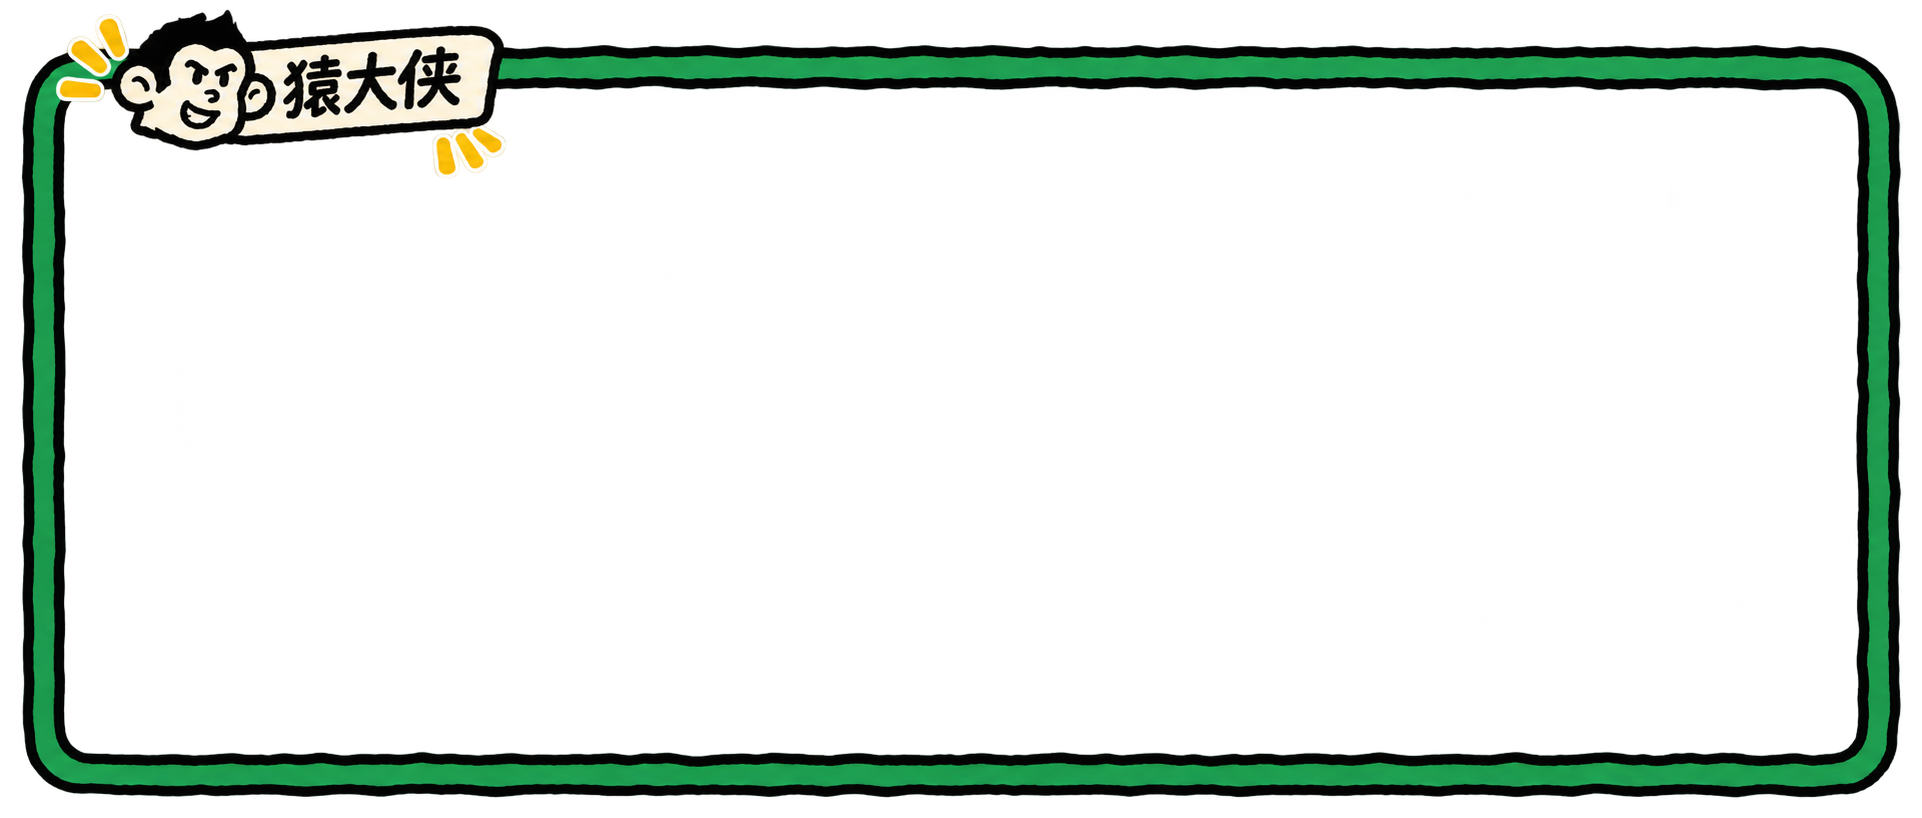
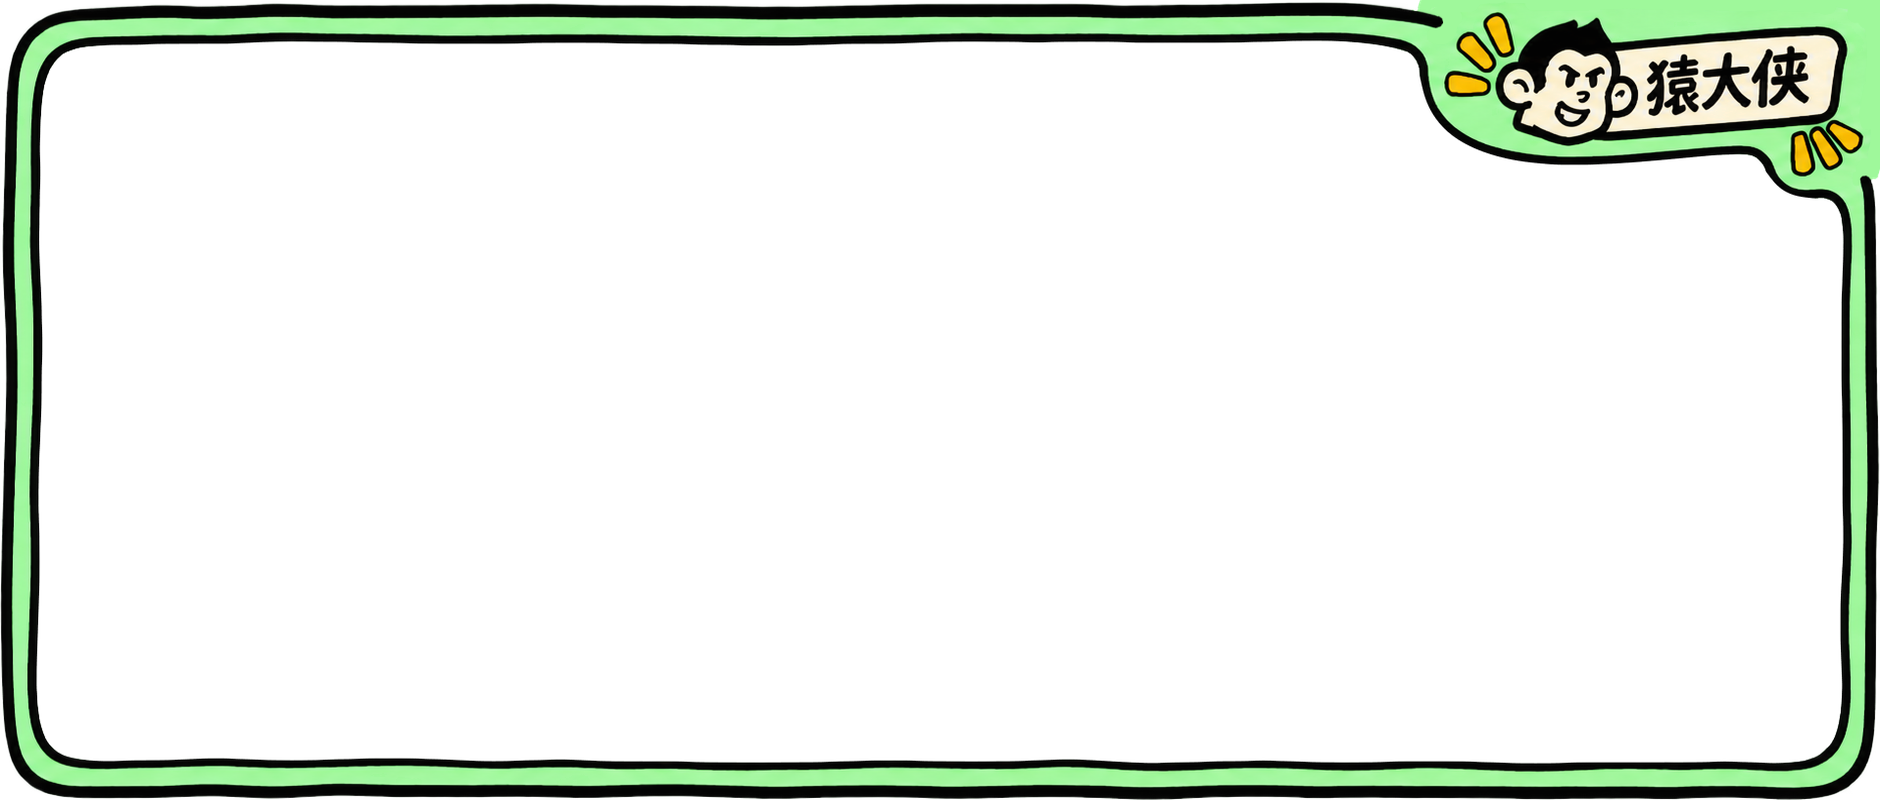
Use user-edited frame resized to exact 2.35:1 without trimming

Changed region(s): [[0.0, 0.0, 1.0, 1.0]]

diff --git a/tests/test_compose_cover.py b/tests/test_compose_cover.py
@@ -80,16 +80,16 @@ class CompositionTests(unittest.TestCase):
             self.assertGreater(count,100)
             self.assertEqual(result.getpixel((940,400)),Image.new('RGBA',(1,1),color).getpixel((0,0)))
 
-    def test_outer_margins_are_tight_without_losing_badge(self):
+    def test_border_asset_is_used_without_cropping_or_pixel_edits(self):
         for filename in m.BORDERS.values():
-            original = Image.open(ROOT/'assets/borders'/filename)
-            overlay = m.prepare_border(original,1880,800)
-            bounds = overlay.getchannel('A').point(lambda value:255 if value>=128 else 0).getbbox()
-            self.assertEqual(overlay.size,(1880,800))
-            self.assertLessEqual(bounds[0],6)
-            self.assertLessEqual(bounds[1],6)
-            self.assertLessEqual(1880-bounds[2],6)
-            self.assertLessEqual(800-bounds[3],6)
+            original = Image.open(ROOT/'assets/borders'/filename).convert('RGBA')
+            self.assertEqual(original.size,(1880,800))
+            self.assertEqual(m.prepare_border(original,1880,800).tobytes(),original.tobytes())
+            # A deliberately asymmetric transparent margin must survive resizing.
+            sample = Image.new('RGBA',(47,20))
+            ImageDraw.Draw(sample).rectangle((6,3,45,18),fill='green')
+            expected = sample.resize((1880,800),Image.Resampling.LANCZOS)
+            self.assertEqual(m.prepare_border(sample,1880,800).tobytes(),expected.tobytes())
 
     def test_rejects_overwrite_before_writing_either_output(self):
         output = self.directory/'output.png'

diff --git a/scripts/compose_cover.py b/scripts/compose_cover.py
@@ -23,16 +23,11 @@ def background_color(image):
 
 
 def prepare_border(original, width, height):
-    """Trim faint outer margins, retaining the opaque frame and badge silhouette."""
+    """Resize the entire approved asset; never trim, crop, or add padding."""
     original = original.convert('RGBA')
-    bounds = original.getchannel('A').point(lambda value:255 if value >= 128 else 0).getbbox()
-    if bounds is None:
-        raise ValueError('Border is empty')
-    padding = max(2, round(min(original.size) * 0.004))
-    left, top, right, bottom = bounds
-    crop = (max(0,left-padding), max(0,top-padding),
-            min(original.width,right+padding), min(original.height,bottom+padding))
-    return original.crop(crop).resize((width,height), Image.Resampling.LANCZOS)
+    if original.size == (width, height):
+        return original.copy()
+    return original.resize((width, height), Image.Resampling.LANCZOS)
 
 
 def border_opening(overlay):

diff --git a/README.md b/README.md
@@ -1,6 +1,6 @@
 # 手绘公众号封面生成 Skill
 
-根据文章标题和正文生成手绘社论漫画风微信公众号封面，自动加上 **新版边框**，标识位于左上角框线处。最终输出严格 **2.35:1**。
+根据文章标题和正文生成手绘社论漫画风微信公众号封面，自动加上 **新版边框**，标识位于右上角。最终输出严格 **2.35:1**。
 
 ## 使用
 
@@ -27,7 +27,7 @@ pip install -r scripts/requirements.txt
 python3 scripts/compose_cover.py --input generated.png --output cover-bordered.png --plain-output cover.png
 ```
 
-脚本默认使用 新版边框，等比铺满框内，裁切超出部分，外侧收紧至约 3 像素保护边。边框外侧固定为纯白色（#FFFFFF），框内保留插画原有背景颜色。生图时为左上角标识预留背景，避免遮挡主体。
+脚本默认使用 新版边框，等比铺满框内，裁切超出部分，边框资产采用用户确认的“边框成图v2”，仅整图拉伸至 1880×800，使用时不裁切、收边或补边。边框外侧固定为纯白色（#FFFFFF），框内保留插画原有背景颜色。生图时为右上角标识预留背景，避免遮挡主体。
 
 默认输出 1880×800 PNG，保留原图，已有输出文件不会被覆盖。明确需要无边框时使用 `--border none`；接受留白、希望完整保留原图时使用 `--fit contain`。`--focus-x`、`--focus-y` 控制裁切中心，取值 0 到 1。
 
